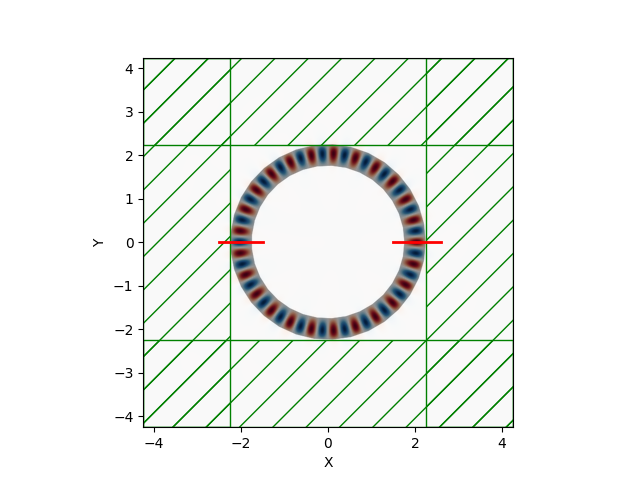
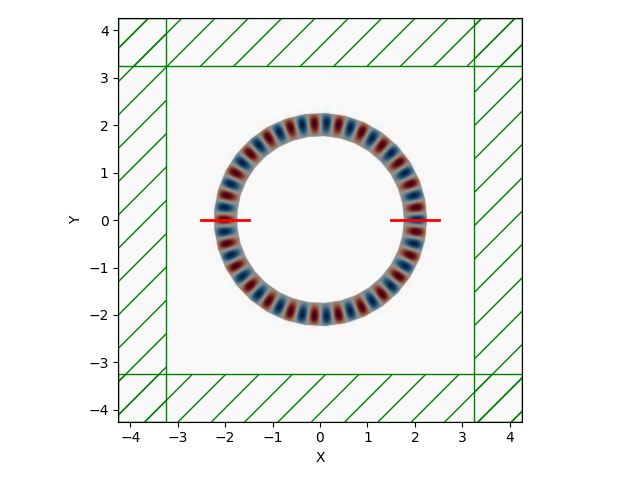
Source shape as Volume

diff --git a/python/examples/ring_gds.py b/python/examples/ring_gds.py
@@ -20,45 +20,45 @@ dpml       = 1          # thickness of PML
 zmin       = 0          # minimum z value of simulation domain (0 for 2D)
 zmax       = 0          # maximum z value of simulation domain (0 for 2D)
 
-def create_ring_gds(radius=5,waveguideWidth=0.5):
+def create_ring_gds(radius,width):
     # Reload the library each time to prevent gds library name clashes
     importlib.reload(gdspy)
 
-    # Draw the ring
-    ringCell = gdspy.Cell("ring_r{}_w{}".format(radius,waveguideWidth))
+    ringCell = gdspy.Cell("ring_resonator_r{}_w{}".format(radius,width))
 
+    # Draw the ring
     ringCell.add(gdspy.Round((0,0),
-                             inner_radius=radius-waveguideWidth/2,
-                             radius=radius+waveguideWidth/2,
+                             inner_radius=radius-width/2,
+                             radius=radius+width/2,
                              layer=RING_LAYER))
 
     # Draw the first source
-    ringCell.add(gdspy.Rectangle((radius-waveguideWidth,0),
-                                 (radius+waveguideWidth+0.1,0),
+    ringCell.add(gdspy.Rectangle((radius-width,0),
+                                 (radius+width,0),
                                  SOURCE0_LAYER))
 
     # Draw the second source
-    ringCell.add(gdspy.Rectangle((-radius+waveguideWidth,0),
-                                 (-radius-waveguideWidth,0),
+    ringCell.add(gdspy.Rectangle((-radius-width,0),
+                                 (-radius+width,0),
                                  SOURCE1_LAYER))
 
     # Draw the monitor location
-    ringCell.add(gdspy.Rectangle((radius-waveguideWidth,0),
-                                 (radius+waveguideWidth,0),
+    ringCell.add(gdspy.Rectangle((radius-width/2,0),
+                                 (radius+width/2,0),
                                  MONITOR_LAYER))
 
     # Draw the simulation domain
     pad = 2  # padding between waveguide and edge of PML
-    ringCell.add(gdspy.Rectangle((-radius-waveguideWidth/2-pad,-radius-waveguideWidth/2-pad),
-                                 (radius+waveguideWidth/2+pad,radius+waveguideWidth/2+pad),
+    ringCell.add(gdspy.Rectangle((-radius-width/2-pad,-radius-width/2-pad),
+                                 (radius+width/2+pad,radius+width/2+pad),
                                  SIMULATION_LAYER))
 
-    filename = "ring_r{}_w{}.gds".format(radius,waveguideWidth)
+    filename = "ring_r{}_w{}.gds".format(radius,width)
     gdspy.write_gds(filename, unit=1.0e-6, precision=1.0e-9)
 
     return filename
 
-def run_sim(filename,wavelengthCenter=1.55,bandwidth=0.05):
+def find_modes(filename,wvl=1.55,bw=0.05):
     # Read in the ring structure
     geometry = mp.get_GDSII_prisms(Si,filename,RING_LAYER,-100,100)
 
@@ -69,19 +69,15 @@ def run_sim(filename,wavelengthCenter=1.55,bandwidth=0.05):
 
     mon_vol = mp.GDSII_vol(filename,MONITOR_LAYER,zmin,zmax)
 
-    # pulse center frequency
-    fcen = 1/wavelengthCenter
-    # pulse frequency width
-    df = bandwidth*fcen
+    fcen = 1/wvl
+    df = bw*fcen
 
     src = [mp.Source(mp.GaussianSource(fcen, fwidth=df),
                      component=mp.Hz,
-                     center=src_vol0.center,
-                     size=src_vol0.size),
+                     volume=src_vol0),
            mp.Source(mp.GaussianSource(fcen, fwidth=df),
                      component=mp.Hz,
-                     center=src_vol1.center,
-                     size=src_vol1.size,
+                     volume=src_vol1,
                      amplitude=-1)]
 
     sim = mp.Simulation(cell_size=cell.size,
@@ -96,20 +92,21 @@ def run_sim(filename,wavelengthCenter=1.55,bandwidth=0.05):
     sim.run(mp.after_sources(h),
             until_after_sources=100)
 
+    plt.figure()
     sim.plot2D(fields=mp.Hz)
-    plt.savefig('ring_resonator_gds_Hz.png')
+    plt.savefig('ring_resonator_Hz.png')
 
-    freq = np.array([1/m.freq for m in h.modes])
+    wvl = np.array([1/m.freq for m in h.modes])
     Q = np.array([m.Q for m in h.modes])
 
     sim.reset_meep()
 
-    return freq, Q
+    return wvl, Q
 
 
 if __name__ == '__main__':
-    filename = create_ring_gds(radius=2.0,waveguideWidth=0.5)
-    freq, Q = run_sim(filename)
-    print("freq: {}".format(freq))
-    print("Q: {}".format(Q))
-    
+    filename = create_ring_gds(2.0,0.5)
+    wvls, Qs = find_modes(filename,1.55,0.05)
+    if mp.am_master():
+        for w, Q in zip(wvls,Qs):
+            print("mode: {}, {}".format(w,Q))

diff --git a/python/source.py b/python/source.py
@@ -12,12 +12,20 @@ def check_positive(prop, val):
 
 class Source(object):
 
-    def __init__(self, src, component, center, size=Vector3(), amplitude=1.0, amp_func=None,
+    def __init__(self, src, component, center=None, volume=None, size=Vector3(), amplitude=1.0, amp_func=None,
                  amp_func_file='', amp_data=None):
+        if center is None and volume is None:
+            raise ValueError("Source requires either center or volume")
+
+        if volume:
+            self.center = volume.center
+            self.size = volume.size
+        else:
+            self.center = Vector3(*center)
+            self.size = Vector3(*size)
+
         self.src = src
         self.component = component
-        self.center = Vector3(*center)
-        self.size = Vector3(*size)
         self.amplitude = complex(amplitude)
         self.amp_func = amp_func
         self.amp_func_file = amp_func_file
@@ -85,7 +93,8 @@ class EigenModeSource(Source):
 
     def __init__(self,
                  src,
-                 center,
+                 center=None,
+                 volume=None,
                  eig_lattice_size=None,
                  eig_lattice_center=None,
                  component=mp.ALL_COMPONENTS,
@@ -98,7 +107,7 @@ class EigenModeSource(Source):
                  eig_tolerance=1e-12,
                  **kwargs):
 
-        super(EigenModeSource, self).__init__(src, component, center, **kwargs)
+        super(EigenModeSource, self).__init__(src, component, center, volume, **kwargs)
         self.eig_lattice_size = eig_lattice_size
         self.eig_lattice_center = eig_lattice_center
         self.component = component

diff --git a/python/examples/coupler.py b/python/examples/coupler.py
@@ -23,8 +23,7 @@ si_zmin = 0
 oxide = mp.Medium(epsilon=2.25)
 silicon=mp.Medium(epsilon=12)
 
-lcen = 1.55
-fcen = 1/lcen
+fcen = 1/1.55
 df = 0.2*fcen
 
 def main(args):
@@ -72,8 +71,7 @@ def main(args):
         geometry = geometry+oxide_layer
 
     sources = [mp.EigenModeSource(src=mp.GaussianSource(fcen,fwidth=df),
-                                  size=src_vol.size,
-                                  center=src_vol.center,
+                                  volume=src_vol,
                                   eig_band=1,
                                   eig_parity=mp.NO_PARITY if args.three_d else mp.EVEN_Y+mp.ODD_Z,
                                   eig_match_freq=True)]

diff --git a/doc/docs/Python_Tutorials/GDSII_Import.md b/doc/docs/Python_Tutorials/GDSII_Import.md
@@ -2,14 +2,14 @@
 # GDSII Import
 ---
 
-This tutorial demonstrates how to set up a simulation based on importing a [GDSII](https://en.wikipedia.org/wiki/GDSII) file. There two examples: (1) computing the [S-parameters](https://en.wikipedia.org/wiki/Scattering_parameters) of a [two-port network](https://en.wikipedia.org/wiki/Two-port_network#Scattering_parameters_(S-parameters)) using a silicon directional coupler and (2) finding the modes of a ring resonator. These two component devices are used in [photonic integrated circuits](https://en.wikipedia.org/wiki/Photonic_integrated_circuit) to split/combine and filter an input signal. For more information on directional couplers and ring resonators, see Section 4.1 of [Silicon Photonics Design](https://www.amazon.com/Silicon-Photonics-Design-Devices-Systems/dp/1107085454) by Chrostowski and Hochberg.
+This tutorial demonstrates how to set up a simulation based on importing a [GDSII](https://en.wikipedia.org/wiki/GDSII) file. There are two examples: (1) computing the [S-parameters](https://en.wikipedia.org/wiki/Scattering_parameters) of a [four-port network](https://en.wikipedia.org/wiki/Two-port_network#Scattering_parameters_(S-parameters)) using a silicon directional coupler and (2) finding the modes of a ring resonator. These two component devices are used in [photonic integrated circuits](https://en.wikipedia.org/wiki/Photonic_integrated_circuit) to split/combine and filter an input signal. For more information on directional couplers and ring resonators, see Section 4.1 of [Silicon Photonics Design](https://www.amazon.com/Silicon-Photonics-Design-Devices-Systems/dp/1107085454) by Chrostowski and Hochberg.
 
 [TOC]
 
 S-Parameters of a Directional Coupler
 -------------------------------------
 
-The directional coupler as well as the source and mode monitor geometries are described by the GDSII file [examples/coupler.gds](https://github.com/NanoComp/meep/blob/master/python/examples/coupler.gds). A snapshot of this file viewed using [KLayout](https://www.klayout.de/) is shown below. The figure labels have been added in post processing. The design consists of two identical strip waveguides which are positioned close together via an adiabatic taper such that their modes couple evanescently. There is a source (labelled "Source") and four mode monitors (labelled "Port 1", etc.). The input pulse from Port 1 is split in two and exits through Ports 3 and 4. The design objective is to find the separation distance (labelled "d") which maximizes power in Port 4 at a wavelength of 1.55 μm. More generally, though not included in this example, it is possible to have two additional degrees of freedom: (1) the length of the straight waveguide section where the two waveguides are coupled and (2) the length of the tapered section (the taper profile is described by a hyperbolic tangent (tanh) function).
+The directional coupler as well as the source and mode monitor geometries are described by the GDSII file [examples/coupler.gds](https://github.com/NanoComp/meep/blob/master/python/examples/coupler.gds). A snapshot of this file viewed using [KLayout](https://www.klayout.de/) is shown below. The figure labels have been added in post processing. The design consists of two identical [strip waveguides](http://www.simpetus.com/projects.html#mpb_waveguide) which are positioned close together via an adiabatic taper such that their modes couple evanescently. There is a source (labelled "Source") and four mode monitors (labelled "Port 1", "Port 2", etc.). The input pulse from Port 1 is split in two and exits through Ports 3 and 4. The design objective is to find the separation distance which maximizes the outgoing power in Port 4 at a wavelength of 1.55 μm. More generally, though not included in this example, it is possible to have two additional degrees of freedom: (1) the length of the straight waveguide section where the two waveguides are coupled and (2) the length of the tapered section (the taper profile is described by a hyperbolic tangent (tanh) function).
 
 <center>
 ![](../images/klayout_schematic.png)
@@ -55,8 +55,7 @@ si_zmin = 0
 oxide = mp.Medium(epsilon=2.25)
 silicon=mp.Medium(epsilon=12)
 
-lcen = 1.55
-fcen = 1/lcen
+fcen = 1/1.55
 df = 0.2*fcen
 
 def main(args):
@@ -104,8 +103,7 @@ def main(args):
         geometry = geometry+oxide_layer
 
     sources = [mp.EigenModeSource(src=mp.GaussianSource(fcen,fwidth=df),
-                                  size=src_vol.size,
-                                  center=src_vol.center,
+                                  volume=src_vol,
                                   eig_band=1,
                                   eig_parity=mp.NO_PARITY if args.three_d else mp.EVEN_Y+mp.ODD_Z,
                                   eig_match_freq=True)]
@@ -171,8 +169,7 @@ These quantitative results can also be verified qualitatively using the field pr
 
 ```py
 sources = [mp.EigenModeSource(src=mp.ContinuousSource(fcen,fwidth=df),
-                              size=src_vol.size,
-                              center=src_vol.center,
+                              volume=src_vol,
                               eig_band=1,
                               eig_parity=mp.EVEN_Y+mp.ODD_Z,
                               eig_match_freq=True)]
@@ -207,7 +204,7 @@ The field profiles confirm that for `d` of 0.06 μm (Figure 1), the input signal
 Modes of a Ring Resonator
 -------------------------
 
-The next example involves creating the ring resonator geometry using [gdspy](https://gdspy.readthedocs.io/en/stable/) and then finding its modes using [harminv](Python_User_Interface.md#harminv). The geometry, source and monitor are included in one GDSII file as separate layers.
+The next example is similar to [Tutorial/Basics/Modes of a Ring Resonator](../Python_Tutorials/Basics.md#modes-of-a-ring-resonator) and consists of two parts: (1) creating the ring resonator geometry using [gdspy](https://gdspy.readthedocs.io/en/stable/) and (2) finding its modes using [Harminv](../Python_User_Interface.md#harminv). The cell, geometry, source, and monitor are defined on separate layers within the same GDSII file.
 
 ```py
 import numpy as np
@@ -232,45 +229,45 @@ dpml       = 1          # thickness of PML
 zmin       = 0          # minimum z value of simulation domain (0 for 2D)
 zmax       = 0          # maximum z value of simulation domain (0 for 2D)
 
-def create_ring_gds(radius=5,waveguideWidth=0.5):
+def create_ring_gds(radius,width):
     # Reload the library each time to prevent gds library name clashes
     importlib.reload(gdspy)
 
-    # Draw the ring
-    ringCell = gdspy.Cell("ring_r{}_w{}".format(radius,waveguideWidth))
+    ringCell = gdspy.Cell("ring_resonator_r{}_w{}".format(radius,width))
 
+    # Draw the ring
     ringCell.add(gdspy.Round((0,0),
-                             inner_radius=radius-waveguideWidth/2,
-                             radius=radius+waveguideWidth/2,
+                             inner_radius=radius-width/2,
+                             radius=radius+width/2,
                              layer=RING_LAYER))
 
     # Draw the first source
-    ringCell.add(gdspy.Rectangle((radius-waveguideWidth,0),
-                                 (radius+waveguideWidth+0.1,0),
+    ringCell.add(gdspy.Rectangle((radius-width,0),
+                                 (radius+width,0),
                                  SOURCE0_LAYER))
 
     # Draw the second source
-    ringCell.add(gdspy.Rectangle((-radius+waveguideWidth,0),
-                                 (-radius-waveguideWidth,0),
+    ringCell.add(gdspy.Rectangle((-radius-width,0),
+                                 (-radius+width,0),
                                  SOURCE1_LAYER))
 
     # Draw the monitor location
-    ringCell.add(gdspy.Rectangle((radius-waveguideWidth,0),
-                                 (radius+waveguideWidth,0),
+    ringCell.add(gdspy.Rectangle((radius-width/2,0),
+                                 (radius+width/2,0),
                                  MONITOR_LAYER))
 
     # Draw the simulation domain
     pad = 2  # padding between waveguide and edge of PML
-    ringCell.add(gdspy.Rectangle((-radius-waveguideWidth/2-pad,-radius-waveguideWidth/2-pad),
-                                 (radius+waveguideWidth/2+pad,radius+waveguideWidth/2+pad),
+    ringCell.add(gdspy.Rectangle((-radius-width/2-pad,-radius-width/2-pad),
+                                 (radius+width/2+pad,radius+width/2+pad),
                                  SIMULATION_LAYER))
 
-    filename = "ring_r{}_w{}.gds".format(radius,waveguideWidth)
+    filename = "ring_r{}_w{}.gds".format(radius,width)
     gdspy.write_gds(filename, unit=1.0e-6, precision=1.0e-9)
 
     return filename
 
-def run_sim(filename,wavelengthCenter=1.55,bandwidth=0.05):
+def find_modes(filename,wvl=1.55,bw=0.05):
     # Read in the ring structure
     geometry = mp.get_GDSII_prisms(Si,filename,RING_LAYER,-100,100)
 
@@ -281,19 +278,15 @@ def run_sim(filename,wavelengthCenter=1.55,bandwidth=0.05):
 
     mon_vol = mp.GDSII_vol(filename,MONITOR_LAYER,zmin,zmax)
 
-    # pulse center frequency
-    fcen = 1/wavelengthCenter
-    # pulse frequency width
-    df = bandwidth*fcen
+    fcen = 1/wvl
+    df = bw*fcen
 
     src = [mp.Source(mp.GaussianSource(fcen, fwidth=df),
                      component=mp.Hz,
-                     center=src_vol0.center,
-                     size=src_vol0.size),
+                     volume=src_vol0),
            mp.Source(mp.GaussianSource(fcen, fwidth=df),
                      component=mp.Hz,
-                     center=src_vol1.center,
-                     size=src_vol1.size,
+                     volume=src_vol1,
                      amplitude=-1)]
 
     sim = mp.Simulation(cell_size=cell.size,
@@ -308,25 +301,29 @@ def run_sim(filename,wavelengthCenter=1.55,bandwidth=0.05):
     sim.run(mp.after_sources(h),
             until_after_sources=100)
 
+    plt.figure()
     sim.plot2D(fields=mp.Hz)
-    plt.savefig('ring_resonator_gds_Hz.png')
+    plt.savefig('ring_resonator_Hz.png')
 
-    freq = np.array([1/m.freq for m in h.modes])
+    wvl = np.array([1/m.freq for m in h.modes])
     Q = np.array([m.Q for m in h.modes])
 
     sim.reset_meep()
 
-    return freq, Q
+    return wvl, Q
 
 
 if __name__ == '__main__':
-    filename = create_ring_gds(radius=2.0,waveguideWidth=0.5)
-    freq, Q = run_sim(filename)
-    print("freq: {}".format(freq))
-    print("Q: {}".format(Q))
+    filename = create_ring_gds(2.0,0.5)
+    wvls, Qs = find_modes(filename,1.55,0.05)
+    if mp.am_master():
+        for w, Q in zip(wvls,Qs):
+            print("mode:, {}, {}".format(w,Q))
 ```
 
-For this ring geometry, `harminv` finds a mode with frequency `0.6463719` and Q of `112239` which has the following field profile. The red lines indicate the sources.
+Note the omission of `symmetries` even though, in principle, the ring geometry and the two line sources satisfy two mirror symmetry planes through the $x$ (even) and $y$ (odd) axes. This omission is due to the fact that the ring geometry created using gdspy and imported from the GDSII file is actually a [`Prism`](../Python_User_Interface.md#prism) consisting of a discrete number of vertices (rather than two overlapping `Cylinder`s as in [Tutorial/Basics/Modes of a Ring Resonator](../Python_Tutorials/Basics.md#modes-of-a-ring-resonator)). Discretization artifacts of the `Prism`-based ring geometry slightly break its symmetry. (Attempting to use `symmetries` in this case would produce unpredictable results.)
+
+For this ring geometry, `Harminv` finds a mode with wavelength `1.5490604` μm and $Q$ of `124691.308`. The $H_z$ field profile is shown below. As expected, due to the large $Q$ the mode is tightly confined to the ring and exhibits little radiative loss.
 
 <center>
 ![](../images/ring_resonator_gds_Hz.png)

diff --git a/doc/docs/Python_User_Interface.md b/doc/docs/Python_User_Interface.md
@@ -782,6 +782,9 @@ The location of the center of the current source in the cell. No default.
 —
 The size of the current distribution along each direction of the cell. Default is `(0,0,0)`: a point-dipole source.
 
+**`volume` [`Volume`]**
+—A `meep.Volume` can be used to specify the source region instead of a `center` and a `size`.
+
 **`amplitude` [`complex`]**
 —
 An overall complex amplitude multiplying the current source. Default is 1.0.
@@ -958,7 +961,7 @@ Properties:
 —A weight factor to multiply the flux by when it is computed. Default is 1.0.
 
 **`volume` [`Volume`]**
-—A `meep.Volume` can be used to specify the flux region instead of a center and a size.
+—A `meep.Volume` can be used to specify the flux region instead of a `center` and a `size`.
 
 Note that the flux is always computed in the *positive* coordinate direction, although this can effectively be flipped by using a `weight` of -1.0. This is useful, for example, if you want to compute the outward flux through a box, so that the sides of the box add instead of subtract.
 
@@ -1349,7 +1352,7 @@ A weight factor to multiply the force by when it is computed. Default is 1.0.
 
 **`volume` [`Volume`]**
 —
-A `meep.Volume` can be used to specify the force region instead of a center and a size.
+A `meep.Volume` can be used to specify the force region instead of a `center` and a `size`.
 
 In most circumstances, you should define a set of `ForceRegion`s whose union is a closed surface lying in vacuum and enclosing the object that is experiencing the force.
 
